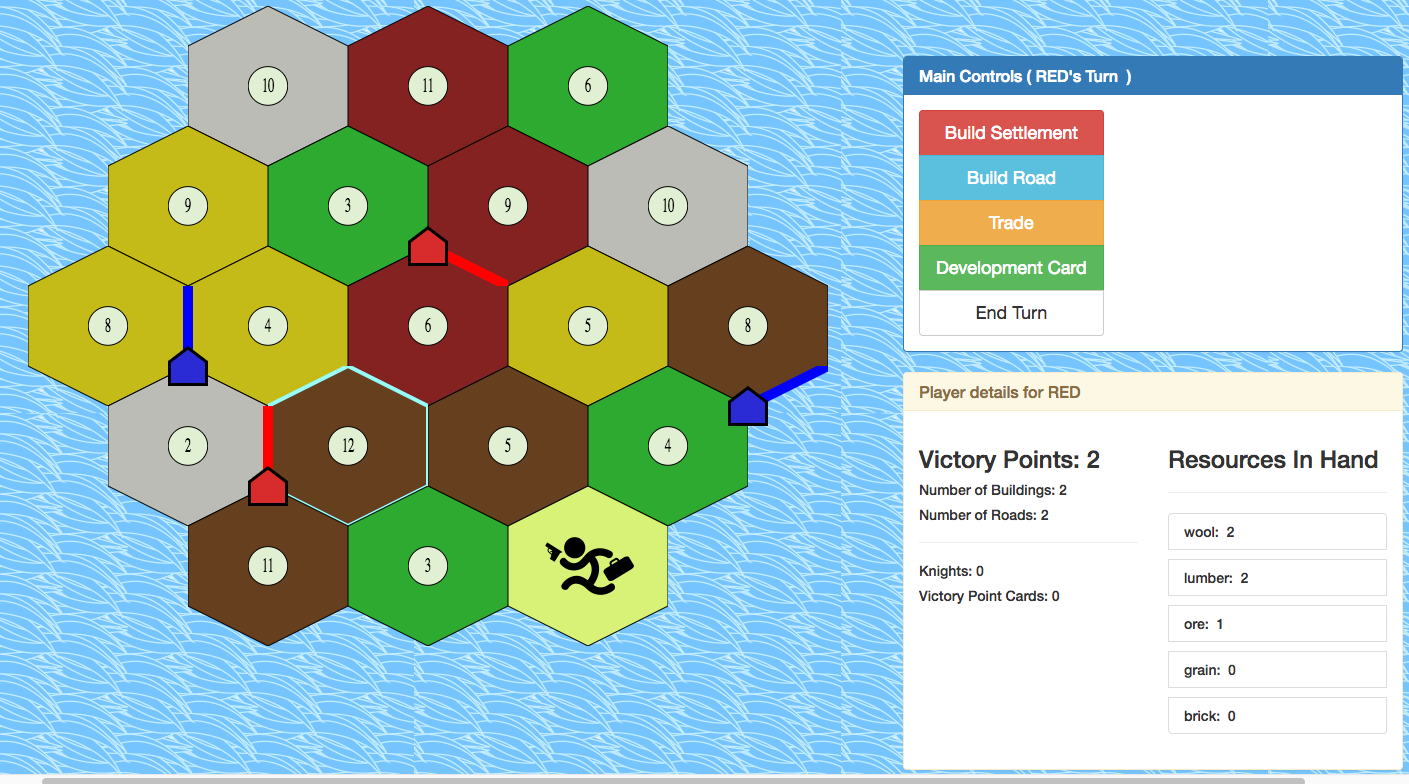
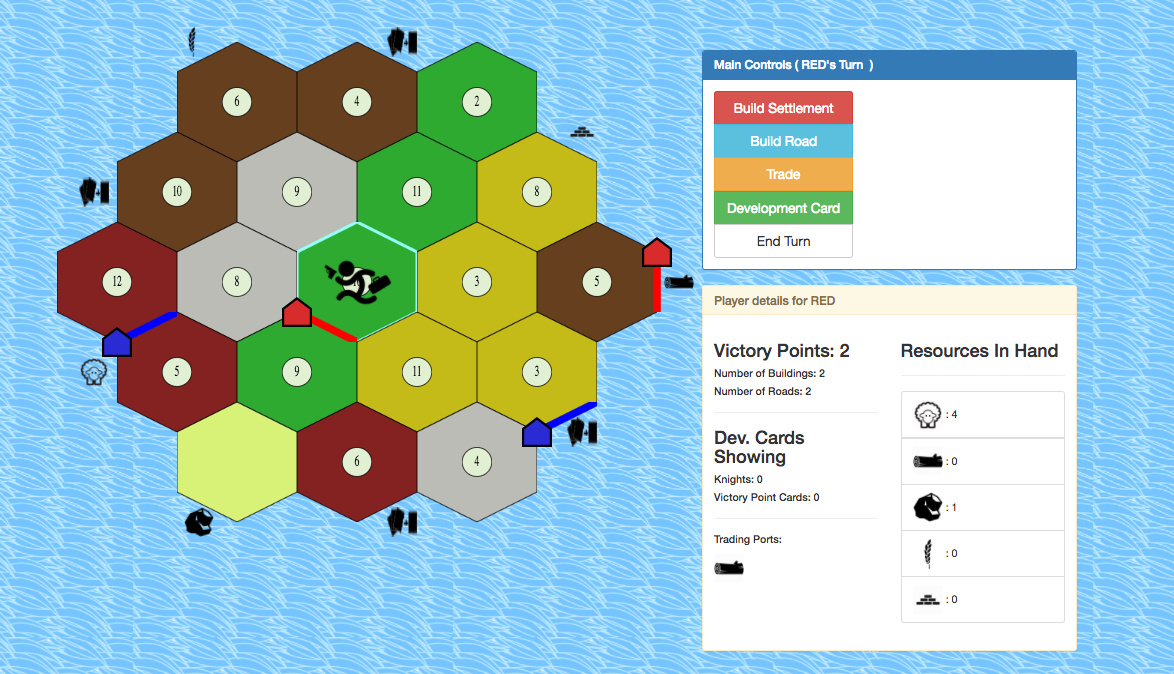
update readme and screenshot

diff --git a/README.md b/README.md
@@ -9,5 +9,7 @@ A live version of this game can be found at https://d3ibawmwga8ymy.cloudfront.ne
 
 ## Missing Functionality (coming soon)
 Game is still missing support for the following:
-- trading ports
 - longest road / largest army cards
+
+## Other 
+- Will implement starting menu to select number of players and input player names.
